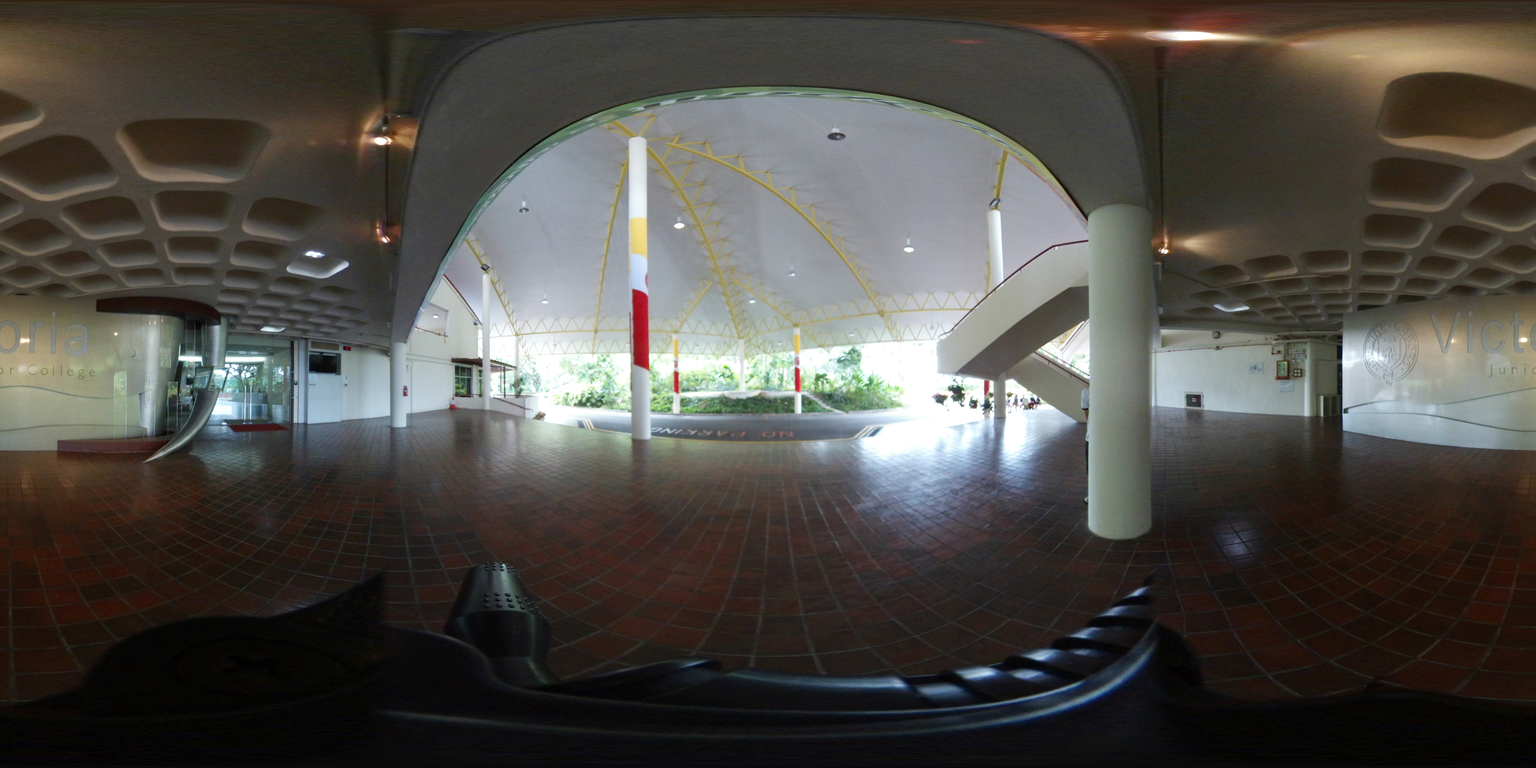
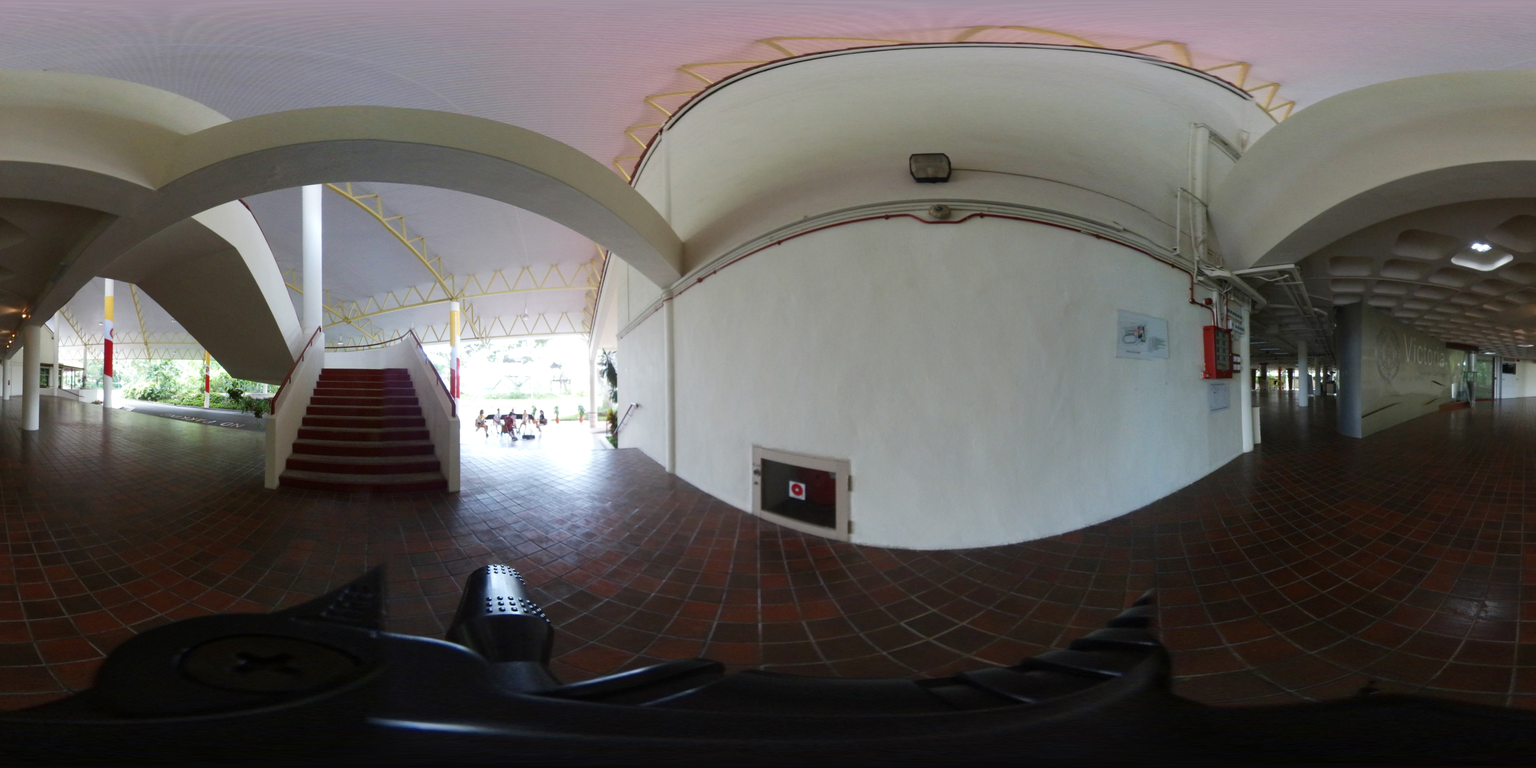
Finish images 63 to 68.

diff --git a/data.js b/data.js
@@ -7,7 +7,7 @@ var locations = {
 // EDIT THIS TO START FROM A CHOSEN IMAGE.
 // ---------------------------------------
 var startingLink = {
-  pano: 'P041',
+  pano: 'P069',
   heading: -110,
   description: 'VJC'
 };
@@ -39,13 +39,14 @@ var panoramas = {
     description: 'Victoria Junior College - P003',
     links: [
       ['P004', 260],
-      ['P002', 80]
+      ['P002', 80],
+      ['P068', 315]
     ],
     centerHeading: 190,
     tileUrl: './images/003.jpg'
   },
 
- P004: {
+  P004: {
     description: 'Victoria Junior College - P004',
     links: [
       ['P005', -90],
@@ -339,7 +340,8 @@ var panoramas = {
     description: 'Victoria Junior College - P037',
     links: [
       ['P005', -90],
-      ['P039', 0]
+      ['P039', 0],
+      ['P068', -180]
     ],
     centerHeading: -20,
     tileUrl: './images/037.jpg'
@@ -399,13 +401,14 @@ var panoramas = {
 
   // TODO
   // P044 - P062
+  // Link 59 to 69
 
   P063: {
     description: 'Concourse',
     // TODO
     links: [
       ['P062', 0],
-      ['P064', -86]
+      ['P064', -90]
     ],
     centerHeading: 140,
     // TODO
@@ -415,53 +418,76 @@ var panoramas = {
   P064: {
     description: 'Concourse / Near General Office',
     links: [
-      ['P063', 86],
+      ['P063', 90],
       ['P065', 200]
     ],
-    centerHeading: 75,
+    centerHeading: 90,
     tileUrl: './images/064.jpg'
   },
 
   P065: {
-    description: 'General Office',
+    description: 'Near General Office',
     links: [
-      ['P064', -200],
-      ['P066', 0]
+      ['P064', 50],
+      ['P066', -50]
     ],
-    centerHeading: 90,
+    centerHeading: -100,
     tileUrl: './images/065.jpg'
   },
 
-  // TODO
-
   P066: {
-    description: 'General Office',
+    description: 'Near General Office',
     links: [
-      ['P065', 0],
-      ['P067', 0]
+      ['P068', -40],
+      ['P065', 120],
+      ['P067', -160]
     ],
-    centerHeading: 0,
+    centerHeading: 5,
     tileUrl: './images/066.jpg'
   },
 
   P067: {
-    description: 'General Office',
+    description: 'Near General Office',
     links: [
-      ['P066', 0],
-      ['P068', 0]
+      ['P065', 80],
+      ['P066', 0]
     ],
-    centerHeading: 0,
+    centerHeading: -100,
     tileUrl: './images/067.jpg'
   },
 
   P068: {
     description: 'Beside LT1',
     links: [
-      ['P067', 0],
-      ['P069', 0]
+      ['P003', -150],
+      ['P067', 85],
+      ['P037', -6]
     ],
-    centerHeading: 0,
+    centerHeading: 40,
     tileUrl: './images/068.jpg'
+  },
+
+  // TODO
+
+  P069: {
+    description: '',
+    links: [
+      ['P059', 85],
+      ['P070', 85]
+      ['P071', 85]
+    ],
+    centerHeading: 40,
+    tileUrl: './images/069.jpg'
+  },
+
+  P070: {
+    description: '',
+    links: [
+      ['P069', -6],
+      ['P070', 85]
+    ],
+    centerHeading: 40,
+    tileUrl: './images/070.jpg'
   },
 
 };

diff --git a/index.js b/index.js
@@ -41,7 +41,7 @@ function generatePanorama(pano, name) {
 function resetPOV() {
   panorama.setPov({
     heading: -100,
-    pitch: 10,
+    pitch: 5,
     zoom: 0
   });
 }
